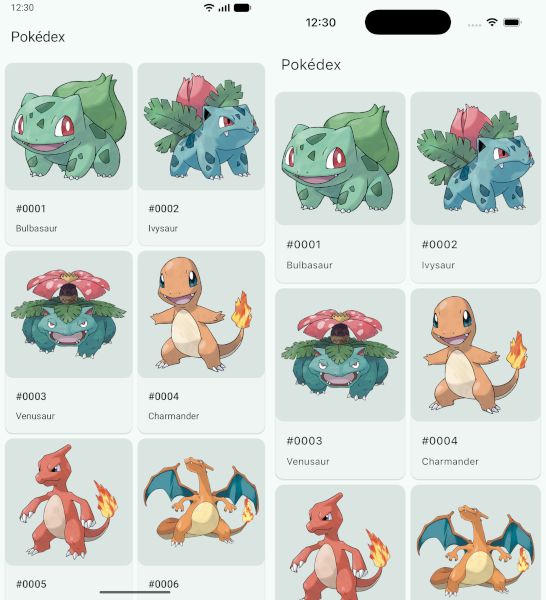
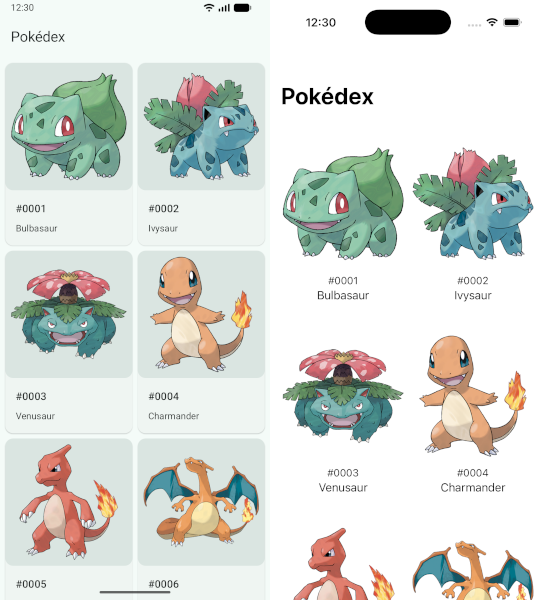
Update iOS app with native UI

diff --git a/pokedex/feature/pokemon/src/commonMain/kotlin/com/kfaraj/samples/pokedex/feature/pokemon/PokemonListViewModel.kt b/pokedex/feature/pokemon/src/commonMain/kotlin/com/kfaraj/samples/pokedex/feature/pokemon/PokemonListViewModel.kt
@@ -1,30 +1,38 @@
 package com.kfaraj.samples.pokedex.feature.pokemon
 
-import androidx.lifecycle.ViewModel
-import androidx.lifecycle.viewModelScope
+import androidx.paging.ItemSnapshotList
 import androidx.paging.Pager
 import androidx.paging.PagingConfig
 import androidx.paging.PagingData
+import androidx.paging.PagingDataEvent
+import androidx.paging.PagingDataPresenter
 import androidx.paging.cachedIn
 import androidx.paging.map
 import com.kfaraj.samples.pokedex.data.pokemon.Pokemon
 import com.kfaraj.samples.pokedex.data.pokemon.PokemonRepository
+import com.rickclephas.kmp.nativecoroutines.NativeCoroutinesState
+import com.rickclephas.kmp.observableviewmodel.MutableStateFlow
+import com.rickclephas.kmp.observableviewmodel.ViewModel
+import com.rickclephas.kmp.observableviewmodel.coroutineScope
 import kotlinx.coroutines.flow.Flow
+import kotlinx.coroutines.flow.StateFlow
+import kotlinx.coroutines.flow.collectLatest
 import kotlinx.coroutines.flow.map
+import kotlinx.coroutines.launch
 import org.koin.core.annotation.KoinViewModel
 
 /**
  * Exposes the Pokémon list UI state.
  */
 @KoinViewModel
-internal class PokemonListViewModel(
+public class PokemonListViewModel internal constructor(
     pokemonRepository: PokemonRepository
 ) : ViewModel() {
 
     /**
      * The stream of paged Pokémon list items UI states.
      */
-    val pagingData: Flow<PagingData<PokemonListItemUiState>> =
+    public val pagingData: Flow<PagingData<PokemonListItemUiState>> =
         Pager(
             PagingConfig(PAGE_SIZE),
             null,
@@ -37,7 +45,44 @@ internal class PokemonListViewModel(
                     pokemon.toPokemonListItemUiState()
                 }
             }
-            .cachedIn(viewModelScope)
+            .cachedIn(viewModelScope.coroutineScope)
+
+    private val pagingDataPresenter = object : PagingDataPresenter<PokemonListItemUiState>() {
+        override suspend fun presentPagingDataEvent(
+            event: PagingDataEvent<PokemonListItemUiState>
+        ) {
+            updateSnapshot()
+        }
+    }
+
+    /**
+     * The stream of paged Pokémon list items UI states.
+     */
+    @NativeCoroutinesState
+    public val itemSnapshotList: StateFlow<ItemSnapshotList<PokemonListItemUiState>>
+        field = MutableStateFlow(
+            viewModelScope,
+            pagingDataPresenter.snapshot()
+        )
+
+    init {
+        viewModelScope.coroutineScope.launch {
+            pagingData.collectLatest {
+                pagingDataPresenter.collectFrom(it)
+            }
+        }
+    }
+
+    private fun updateSnapshot() {
+        itemSnapshotList.value = pagingDataPresenter.snapshot()
+    }
+
+    /**
+     * Returns the item at [index].
+     */
+    public fun getItem(index: Int): PokemonListItemUiState? {
+        return pagingDataPresenter[index]
+    }
 
     /**
      * Converts the model from the data layer to the UI layer.
@@ -50,7 +95,7 @@ internal class PokemonListViewModel(
         )
     }
 
-    companion object {
+    public companion object {
         private const val PAGE_SIZE = 50
     }
 

diff --git a/pokedex/feature/pokemon/src/commonMain/kotlin/com/kfaraj/samples/pokedex/feature/pokemon/PokemonDetailViewModel.kt b/pokedex/feature/pokemon/src/commonMain/kotlin/com/kfaraj/samples/pokedex/feature/pokemon/PokemonDetailViewModel.kt
@@ -1,12 +1,12 @@
 package com.kfaraj.samples.pokedex.feature.pokemon
 
-import androidx.lifecycle.ViewModel
-import androidx.lifecycle.viewModelScope
 import com.kfaraj.samples.pokedex.data.pokemon.Pokemon
 import com.kfaraj.samples.pokedex.data.pokemon.PokemonRepository
-import kotlinx.coroutines.flow.MutableStateFlow
+import com.rickclephas.kmp.nativecoroutines.NativeCoroutinesState
+import com.rickclephas.kmp.observableviewmodel.MutableStateFlow
+import com.rickclephas.kmp.observableviewmodel.ViewModel
+import com.rickclephas.kmp.observableviewmodel.launch
 import kotlinx.coroutines.flow.StateFlow
-import kotlinx.coroutines.launch
 import org.koin.core.annotation.InjectedParam
 import org.koin.core.annotation.KoinViewModel
 
@@ -14,7 +14,7 @@ import org.koin.core.annotation.KoinViewModel
  * Exposes the Pokémon detail UI state.
  */
 @KoinViewModel
-internal class PokemonDetailViewModel(
+public class PokemonDetailViewModel internal constructor(
     @InjectedParam key: PokemonDetailKey,
     pokemonRepository: PokemonRepository
 ) : ViewModel() {
@@ -22,8 +22,9 @@ internal class PokemonDetailViewModel(
     /**
      * The stream of Pokémon detail UI state.
      */
-    val uiState: StateFlow<PokemonDetailUiState>
-        field = MutableStateFlow(PokemonDetailUiState())
+    @NativeCoroutinesState
+    public val uiState: StateFlow<PokemonDetailUiState>
+        field = MutableStateFlow(viewModelScope, PokemonDetailUiState())
 
     init {
         viewModelScope.launch {

diff --git a/pokedex/iosApp/Pokedex/ContentView.swift b/pokedex/iosApp/Pokedex/ContentView.swift
@@ -1,19 +1,26 @@
 import Shared
 import SwiftUI
 
-struct ContentView: UIViewControllerRepresentable {
+struct ContentView: View {
     let title: String
+    @State private var backStack = NavigationPath()
 
-    func makeUIViewController(context: Context) -> UIViewController {
-        return MainViewController_iosKt.MainViewController(title: title)
-    }
-
-    func updateUIViewController(_ uiViewController: UIViewController, context: Context) {
-        // Do nothing.
+    var body: some View {
+        NavigationStack(path: $backStack) {
+            PokemonListView(viewModel: PokemonListViewModelFactory.shared.create()) { itemId in
+                if let itemId {
+                    let key = PokemonDetailKey(id: Int32(itemId))
+                    backStack.append(key)
+                }
+            }
+            .navigationTitle(title)
+            .navigationDestination(for: PokemonDetailKey.self) { key in
+                PokemonDetailView(viewModel: PokemonDetailViewModelFactory.shared.create(key: key))
+            }
+        }
     }
 }
 
 #Preview {
     ContentView(title: "Pokédex")
-        .ignoresSafeArea()
 }

diff --git a/pokedex/iosApp/Pokedex/PokemonDetailView.swift b/pokedex/iosApp/Pokedex/PokemonDetailView.swift
@@ -1,0 +1,39 @@
+import KMPObservableViewModelSwiftUI
+import Shared
+import SwiftUI
+
+struct PokemonDetailView: View {
+    @StateViewModel var viewModel: PokemonDetailViewModel
+
+    var body: some View {
+        PokemonDetailViewSnapshot(uiState: viewModel.uiState)
+    }
+}
+
+struct PokemonDetailViewSnapshot: View {
+    let uiState: PokemonDetailUiState
+
+    var body: some View {
+        ScrollView {
+            VStack {
+                AsyncImage(url: URL(string: uiState.sprite ?? "")) { phase in
+                    phase.image?.resizable()
+                }
+                .frame(width: 194, height: 194)
+                Text(uiState.id.map { String(format: "#%04d", $0.intValue) } ?? "")
+                    .font(.subheadline)
+                Text(uiState.name ?? "")
+                    .font(.body)
+            }
+        }
+    }
+}
+
+#Preview {
+    let uiState = PokemonDetailUiState(
+        id: 1,
+        name: "Bulbasaur",
+        sprite: "https://raw.githubusercontent.com/PokeAPI/sprites/master/sprites/pokemon/other/official-artwork/1.png"
+    )
+    PokemonDetailViewSnapshot(uiState: uiState)
+}

diff --git a/pokedex/iosApp/Pokedex/PokemonListItemView.swift b/pokedex/iosApp/Pokedex/PokemonListItemView.swift
@@ -1,0 +1,29 @@
+import KMPObservableViewModelSwiftUI
+import Shared
+import SwiftUI
+
+struct PokemonListItemView: View {
+    let uiState: PokemonListItemUiState?
+
+    var body: some View {
+        VStack {
+            AsyncImage(url: URL(string: uiState?.sprite ?? "")) { phase in
+                phase.image?.resizable()
+            }
+            .frame(width: 194, height: 194)
+            Text((uiState?.id).map { String(format: "#%04d", $0) } ?? "")
+                .font(.subheadline)
+            Text(uiState?.name ?? "")
+                .font(.body)
+        }
+    }
+}
+
+#Preview {
+    let uiState = PokemonListItemUiState(
+        id: 1,
+        name: "Bulbasaur",
+        sprite: "https://raw.githubusercontent.com/PokeAPI/sprites/master/sprites/pokemon/other/official-artwork/1.png"
+    )
+    PokemonListItemView(uiState: uiState)
+}

diff --git a/pokedex/iosApp/Pokedex/PokemonListView.swift b/pokedex/iosApp/Pokedex/PokemonListView.swift
@@ -1,0 +1,24 @@
+import KMPObservableViewModelSwiftUI
+import Shared
+import SwiftUI
+
+struct PokemonListView: View {
+    @StateViewModel var viewModel: PokemonListViewModel
+    let onItemClick: (Int?) -> Void
+
+    var body: some View {
+        ScrollView {
+            LazyVGrid(columns: [GridItem(.flexible()), GridItem(.flexible())]) {
+                ForEach(viewModel.itemSnapshotList.indices, id: \.self) { index in
+                    let item = viewModel.getItem(index: Int32(index))
+                    PokemonListItemView(uiState: item)
+                        .onTapGesture {
+                            onItemClick((item?.id).map { Int($0) })
+                        }
+                        .padding()
+                }
+            }
+            .padding()
+        }
+    }
+}

diff --git a/pokedex/feature/pokemon/src/iosMain/kotlin/com/kfaraj/samples/pokedex/feature/pokemon/PokemonDetailViewModel.ios.kt b/pokedex/feature/pokemon/src/iosMain/kotlin/com/kfaraj/samples/pokedex/feature/pokemon/PokemonDetailViewModel.ios.kt
@@ -1,0 +1,23 @@
+package com.kfaraj.samples.pokedex.feature.pokemon
+
+import org.koin.core.component.KoinComponent
+import org.koin.core.component.get
+import org.koin.core.parameter.parametersOf
+
+/**
+ * Instantiates [PokemonDetailViewModel].
+ */
+public object PokemonDetailViewModelFactory : KoinComponent {
+
+    /**
+     * Creates a new instance of [PokemonDetailViewModel].
+     */
+    public fun create(
+        key: PokemonDetailKey
+    ): PokemonDetailViewModel {
+        return get {
+            parametersOf(key)
+        }
+    }
+
+}

diff --git a/pokedex/feature/pokemon/src/iosMain/kotlin/com/kfaraj/samples/pokedex/feature/pokemon/PokemonListViewModel.ios.kt b/pokedex/feature/pokemon/src/iosMain/kotlin/com/kfaraj/samples/pokedex/feature/pokemon/PokemonListViewModel.ios.kt
@@ -1,0 +1,19 @@
+package com.kfaraj.samples.pokedex.feature.pokemon
+
+import org.koin.core.component.KoinComponent
+import org.koin.core.component.get
+
+/**
+ * Instantiates [PokemonListViewModel].
+ */
+public object PokemonListViewModelFactory : KoinComponent {
+
+    /**
+     * Creates a new instance of [PokemonListViewModel].
+     */
+    public fun create(
+    ): PokemonListViewModel {
+        return get()
+    }
+
+}

diff --git a/pokedex/feature/pokemon/src/commonMain/kotlin/com/kfaraj/samples/pokedex/feature/pokemon/PokemonDetailUiState.kt b/pokedex/feature/pokemon/src/commonMain/kotlin/com/kfaraj/samples/pokedex/feature/pokemon/PokemonDetailUiState.kt
@@ -3,7 +3,7 @@ package com.kfaraj.samples.pokedex.feature.pokemon
 /**
  * Contains the Pokémon detail UI state.
  */
-internal data class PokemonDetailUiState(
+public data class PokemonDetailUiState(
     val id: Int? = null,
     val name: String? = null,
     val sprite: String? = null

diff --git a/pokedex/feature/pokemon/src/commonMain/kotlin/com/kfaraj/samples/pokedex/feature/pokemon/PokemonListItemUiState.kt b/pokedex/feature/pokemon/src/commonMain/kotlin/com/kfaraj/samples/pokedex/feature/pokemon/PokemonListItemUiState.kt
@@ -3,7 +3,7 @@ package com.kfaraj.samples.pokedex.feature.pokemon
 /**
  * Contains the Pokémon list item UI state.
  */
-internal data class PokemonListItemUiState(
+public data class PokemonListItemUiState(
     val id: Int,
     val name: String,
     val sprite: String

diff --git a/pokedex/iosApp/Pokedex/PokedexApp.swift b/pokedex/iosApp/Pokedex/PokedexApp.swift
@@ -10,7 +10,6 @@ struct PokedexApp: App {
     var body: some Scene {
         WindowGroup {
             ContentView(title: "Pokédex")
-                .ignoresSafeArea()
         }
     }
 }

diff --git a/pokedex/iosApp/Pokedex/KMPObservableViewModel.swift b/pokedex/iosApp/Pokedex/KMPObservableViewModel.swift
@@ -1,0 +1,5 @@
+import Combine
+import KMPObservableViewModelCore
+import Shared
+
+extension Kmp_observableviewmodel_coreViewModel: @retroactive ViewModel { }
